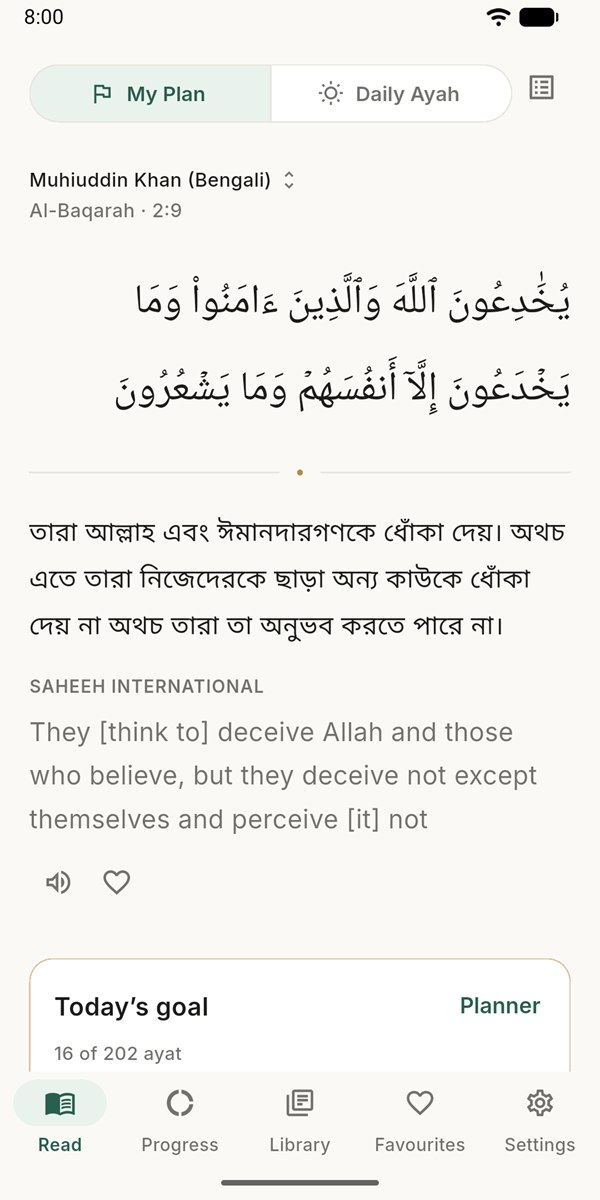
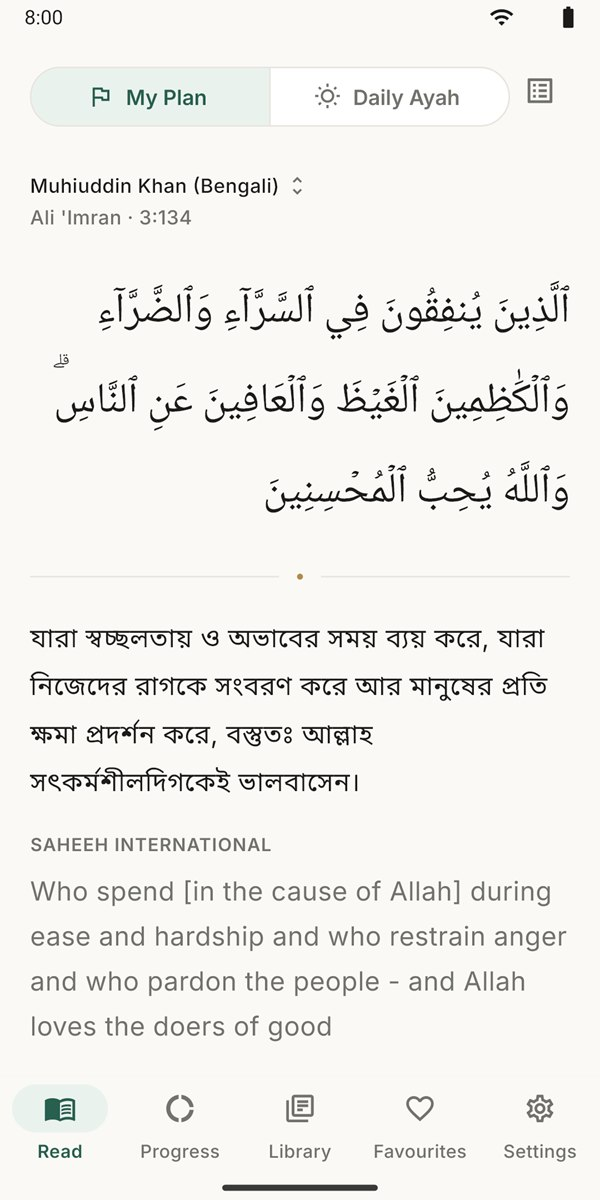
Show Ali 'Imran 3:134 on the website's reading screen
The reading screenshot on the home page, the features page and the gallery
is now the app at Ali 'Imran 3:134: a plan in progress, Muhiuddin Khan
(Bengali) with Saheeh International beneath, as the Play screenshot had it
at 2:9. It is the real Read screen rendered by Flutter from the bundled
editions, at the Play screenshots' 1080 x 2160, kept in website/art/screens.

prepare-images.cs now prefers a screenshot of the same name in
website/art/screens over the store's own, so the site can show something
the store listing does not. The Play listing is unchanged.

diff --git a/website/tools/prepare-images.cs b/website/tools/prepare-images.cs
@@ -8,7 +8,9 @@
 //
 //  * The Play Store screenshots (1080 x 2160) as 600 x 1200 JPEGs: never shown wider
 //    than about 300 pixels, so this is still sharp on a 2x screen, at a
-//    fraction of the download.
+//    fraction of the download. A screenshot of the same name in
+//    website/art/screens is used in its place — how the site shows something
+//    the store listing does not.
 //  * The 512px store icon at the sizes browsers and search results ask for.
 
 using System.Drawing;
@@ -16,6 +18,7 @@ using System.Drawing.Drawing2D;
 using System.Drawing.Imaging;
 
 string screens = "fastlane/metadata/android/en-US/images/phoneScreenshots";
+string siteScreens = "website/art/screens";
 string icon = "fastlane/metadata/android/en-US/images/icon.png";
 string output = "website/src/DailyQuran.Web/wwwroot/img";
 
@@ -27,8 +30,11 @@ if (!Directory.Exists(screens))
 
 foreach (string file in Directory.GetFiles(screens, "*.png"))
 {
-    string target = Path.Combine(output, "screens", Path.ChangeExtension(Path.GetFileName(file), ".jpg"));
-    Resize(file, target, 600, 1200);
+    string name = Path.GetFileName(file);
+    string own = Path.Combine(siteScreens, name);
+    string source = File.Exists(own) ? own : file;
+    string target = Path.Combine(output, "screens", Path.ChangeExtension(name, ".jpg"));
+    Resize(source, target, 600, 1200);
 }
 
 foreach (int size in new[] { 96, 180, 192 })

diff --git a/website/src/DailyQuran.Web/Site/PhoneShot.cs b/website/src/DailyQuran.Web/Site/PhoneShot.cs
@@ -3,7 +3,7 @@ namespace DailyQuran.Web.Site;
 /// <summary>One of the app's Play Store screenshots, shown in a phone frame.</summary>
 public sealed record PhoneShot(string File, string Alt, string CssClass = "", bool Eager = false)
 {
-    public static readonly PhoneShot Read = new("1_read.jpg", "The reading screen: an ayah from Al-Baqarah in Arabic, with its Bengali and English translations beneath, and today’s goal below.");
+    public static readonly PhoneShot Read = new("1_read.jpg", "The reading screen on a plan: Ali ’Imran 3:134 in Arabic, with its Bengali and English translations beneath.");
     public static readonly PhoneShot Planner = new("2_planner.jpg", "The Qur’an Planner: a plan to finish in one month, on track, with 31 days left, and the choices of one month, one year or a date you pick.");
     public static readonly PhoneShot Progress = new("3_progress.jpg", "Your Progress: a one-day streak, 20 minutes read today, the days of the week, and the plan’s goal for today.");
     public static readonly PhoneShot Reminders = new("4_reminders.jpg", "Notification settings: a daily reminder, how often it comes, and two reminder times.");
